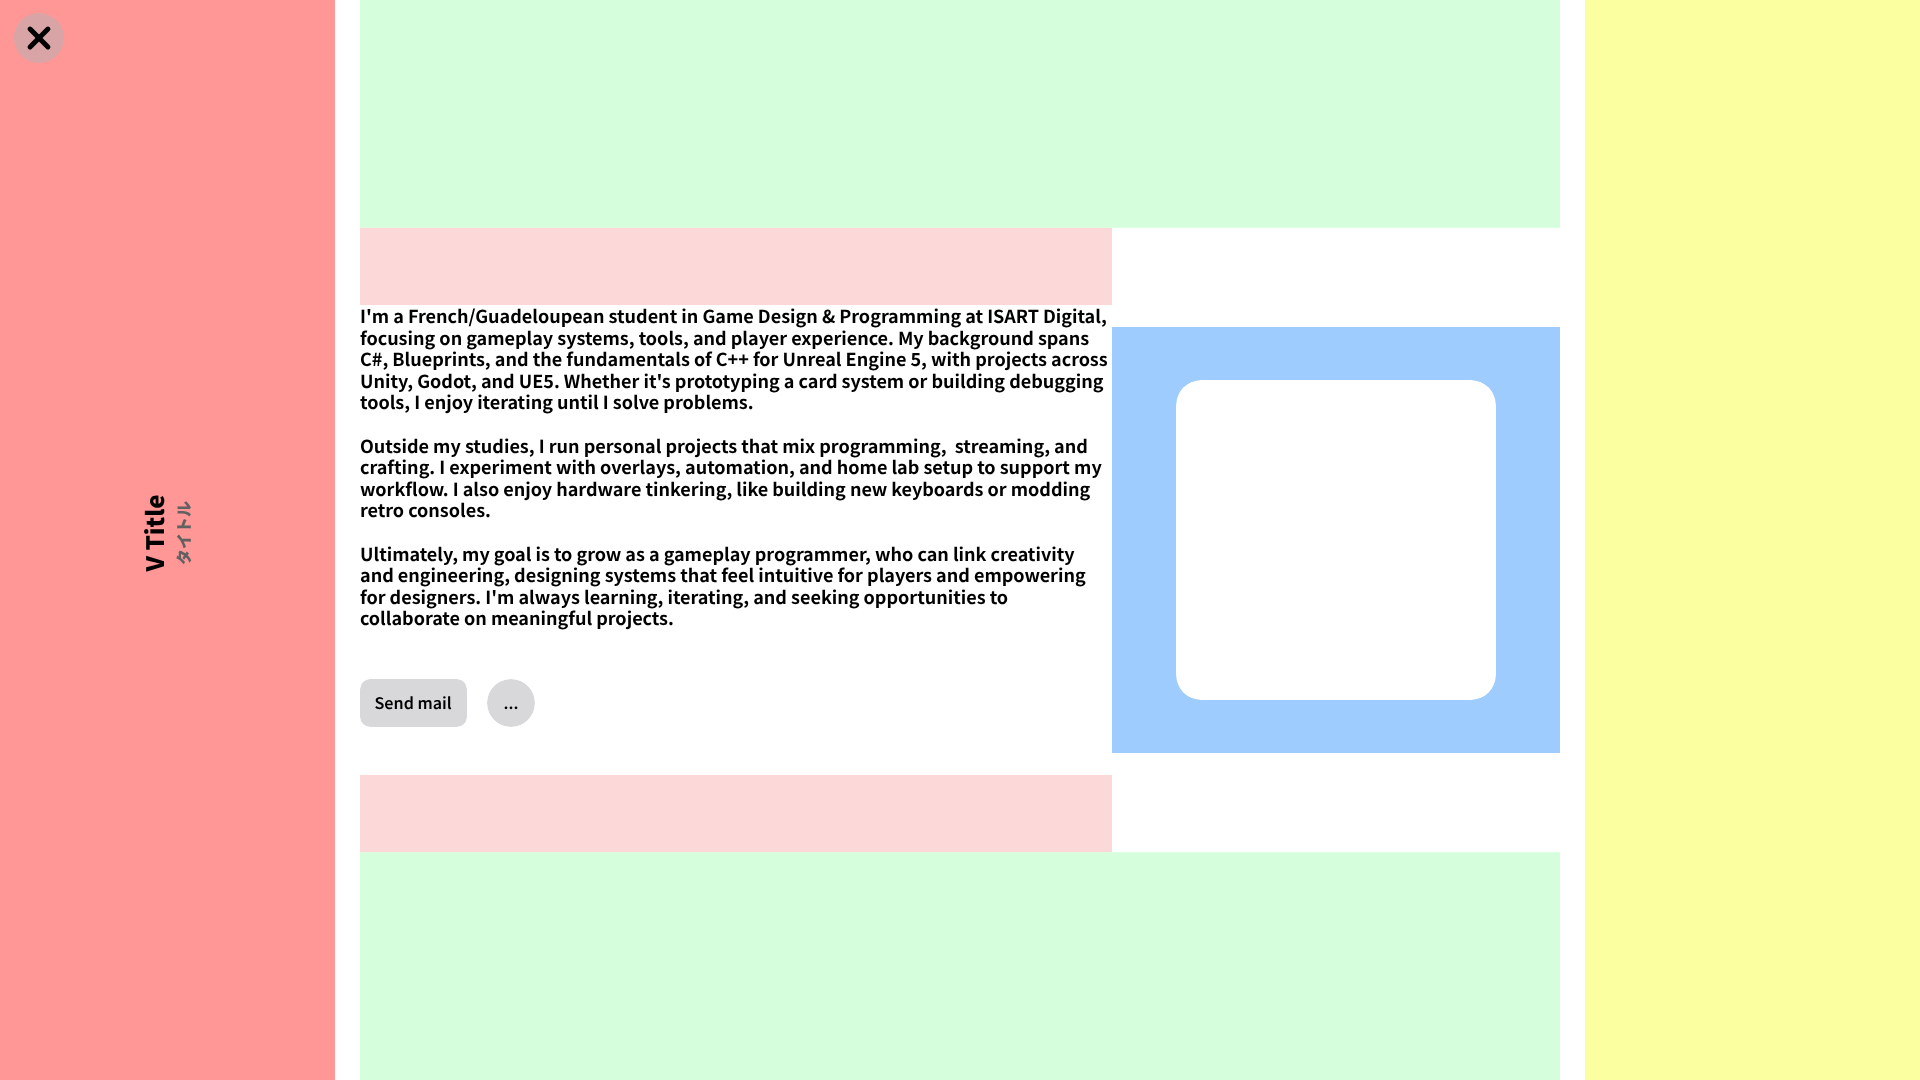
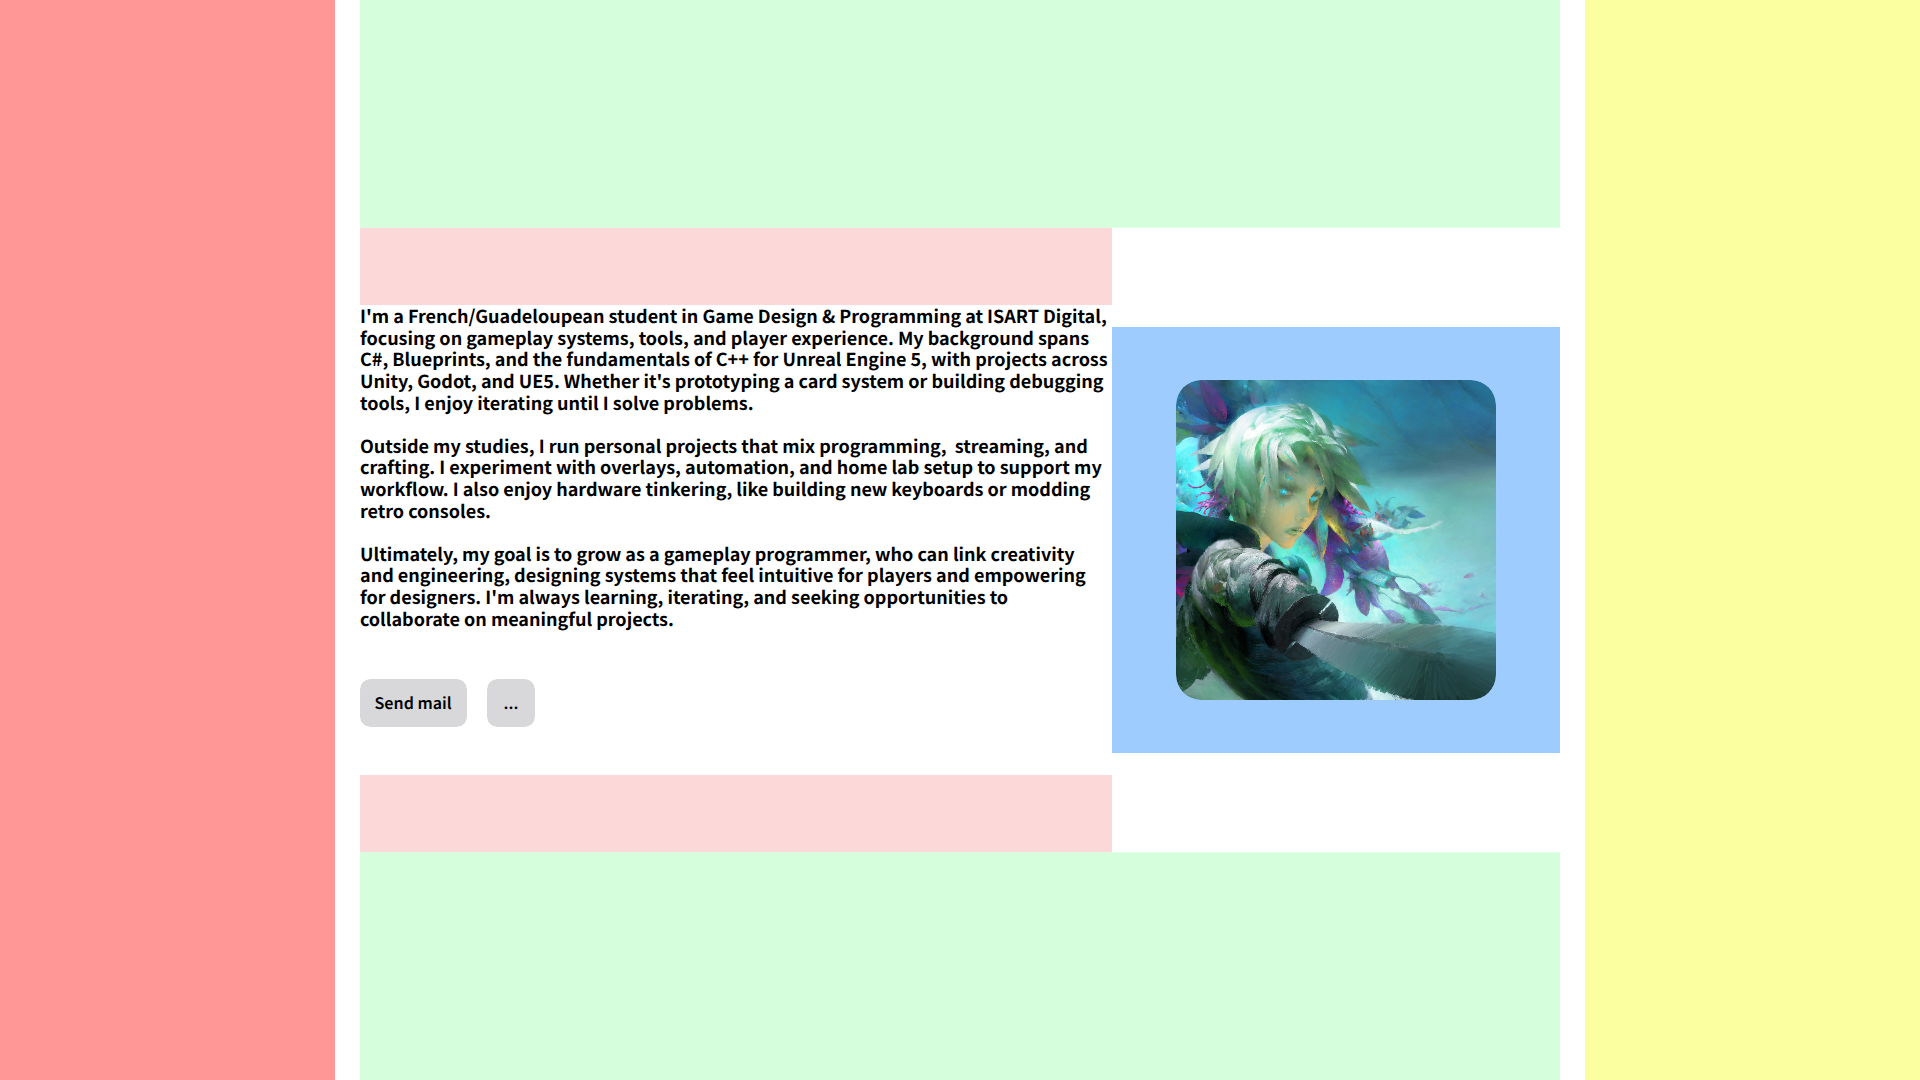
feat: add skeleton for about me refs #7

diff --git a/public/about/assets/css/about.css b/public/about/assets/css/about.css
@@ -1,0 +1,180 @@
+@import url(../../../assets/css/base.css);
+html
+{
+	background-image: url("../../../assets/img/Frieren.png");
+	/* background-repeat: no-repeat; */
+	background-size: cover;
+}
+
+
+
+header
+{
+	position: sticky;
+	background: transparent;
+	border-bottom: none;
+	z-index: 1;
+}
+
+nav
+{
+	display: flex;
+	align-items: center;
+	justify-content: space-between;
+	padding: var(--lspace-20) var(--lspace-25);
+	margin: var(--lspace-20) var(--lspace-25);
+	max-height: 120px;
+	
+	border: 1px solid var(--bg);
+	border-radius: 1rem;
+	backdrop-filter: blur(15px) saturate(250%);
+	-webkit-backdrop-filter: blur(15px) saturate(250%);
+	background-color: rgba(255, 255, 255, 0.05);
+	
+}
+
+.nav-right
+{
+	display: flex;
+	flex-direction: row;
+	align-items: center;
+	justify-content: center;
+	column-gap: var(--lspace-20);
+}
+
+.chip
+{
+	display: inline-flex;
+	flex-direction: column;
+	align-items: center;
+	
+	color: var(--muted);
+	text-align: center;
+	font-size: 1.5rem;
+	border: 1px solid rgba(255, 255, 255, 0);
+	border-radius: var(--radii-xl);
+	padding: var(--lspace-5);
+	/* backdrop-filter: blur(1px) saturate(120%); */
+	/* -webkit-backdrop-filter: blur(1px) saturate(120%); */
+}
+
+.chip:hover
+{
+	color: var(--text);
+	border: 1px solid var(--muted);
+	border-radius: var(--radii-xl);
+	backdrop-filter: blur(15px) saturate(300%);
+	-webkit-backdrop-filter: blur(15px) saturate(300%);
+	background-color: rgba(0, 0, 0, 0.05);
+}
+
+main
+{
+	/* display: flex;
+	align-items: center;
+	justify-content: space-between; */
+	margin: 0px var(--lspace-25);
+}
+
+.about-me
+{
+	/* max-width: 60%; */
+	display: flex;
+	align-items: center;
+	justify-content: space-between;
+
+}
+
+.about-me-text
+{
+	border: 1px solid var(--bg);
+	border-radius: 1rem;
+	backdrop-filter: blur(15px) saturate(250%);
+	-webkit-backdrop-filter: blur(15px) saturate(250%);
+	background-color: rgba(255, 255, 255, 0.05);
+
+	padding: var(--lspace-20);
+	padding-top: var(--lspace-5);
+	padding-bottom: 0px;
+
+	max-width: 60%;
+}
+
+.about-me-text > h1
+{
+	margin: 0;
+}
+
+.pfp
+{
+	margin: 0% 5%;
+
+	padding: 1%;
+	
+	border: 1px solid var(--bg);
+	border-radius: var(--radii-xl);
+	backdrop-filter: blur(15px) saturate(250%);
+	-webkit-backdrop-filter: blur(15px) saturate(250%);
+	background-color: rgba(255, 255, 255, 0.05);
+	
+}
+
+.pfp > img
+{
+	border-radius: var(--radii-xl);
+}
+
+.buttons
+{
+	display: flex;
+	column-gap: var(--lspace-25);
+}
+
+.button
+{
+	margin: var(--lspace-10) 0px;
+	display: inline-flex;
+    flex-direction: row;
+    align-items: center;
+    justify-content: center;
+
+    padding: 10px 10px;
+    font-size: 1rem;
+    /* font-weight: var(--font-weight-300); */
+
+    /* background: rgb(70, 69, 69); */
+	color: var(--text);
+
+    border: 1px solid var(--muted);
+    border-radius: var(--radii-md);
+    column-gap: var(--lspace-5);
+
+    backdrop-filter: blur(15px) saturate(250%);
+	-webkit-backdrop-filter: blur(15px) saturate(250%);
+	background-color: rgba(255, 255, 255, 0.10);
+    box-shadow: 10px 10px 15px 0px rgba(255, 255, 255, 0.05);
+}
+
+.button:hover
+{
+	/* display: inline-flex;
+    flex-direction: row;
+    align-items: center;
+    justify-content: center;
+
+    padding: 10px 10px;
+    font-size: 1rem; */
+	color: black;
+    /* font-weight: var(--font-weight-300); */
+
+    /* background: rgb(70, 69, 69); */
+
+    /* border: 1px solid var(--muted);
+    border-radius: var(--radii-md);
+    column-gap: var(--lspace-5); */
+
+    /* backdrop-filter: blur(15px) saturate(250%); */
+	/* -webkit-backdrop-filter: blur(15px) saturate(250%); */
+	background-color: rgba(255, 255, 255, 0.50);
+    /* box-shadow: 10px 10px 15px 0px rgba(255, 255, 255, 0.05); */
+}

diff --git a/public/about/about.html b/public/about/about.html
@@ -1,0 +1,68 @@
+<!DOCTYPE html>
+<html lang="en">
+
+<head>
+    <meta charset="UTF-8">
+    <meta name="viewport" content="width=device-width, initial-scale=1.0">
+    <title>About Me - Thomas</title>
+
+    <!-- Font preload -->
+    <link rel="preconnect" href="https://fonts.googleapis.com">
+    <link rel="preconnect" href="https://fonts.gstatic.com" crossorigin>
+    <link
+        href="https://fonts.googleapis.com/css2?family=Noto+Sans+JP:wght@100..900&family=Noto+Sans:ital,wght@0,100..900;1,100..900&display=swap"
+        rel="stylesheet">
+
+    <!-- CSS -->
+    <!-- <link rel="stylesheet" href="../assets/css/base.css"> -->
+    <link rel="stylesheet" href="assets/css/about.css">
+    <link rel="shortcut icon" href="../assets/img/Thumbnail.png" type="image/x-icon">
+
+    <!-- JS -->
+    <script src="../assets/js/core.js" defer></script>
+</head>
+
+<body>
+    <header>
+        <nav>
+            <div>
+                <a class="chip" href="../index.html"><span>Home</span><span>トップページ</span></a>
+            </div>
+            <div class="nav-right">
+                <a class="chip" href="#"><span>Portfolio</span><span>ポートフォリオ</span></a>
+                <a class="chip" href="#"><span>About Me</span><span>私について</span></a>
+            </div>
+        </nav>
+    </header>
+    <main>
+        <div class="about-me">
+            <div class="about-me-text">
+                <h1>About me</h1>
+                <p>I'm a French/Guadeloupean student in Game Design & Programming at ISART Digital, focusing on gameplay
+                    systems, tools, and player experience. My background spans C#, Blueprints, and the fundamentals of
+                    C++
+                    for Unreal Engine 5, with projects across Unity, Godot, and UE5. Whether it's prototyping a card
+                    system
+                    or building debugging tools, I enjoy iterating until I solve problems.</p>
+                <p>Outside my studies, I run personal projects that mix programming, streaming, and crafting. I
+                    experiment
+                    with overlays, automation, and home lab setup to support my workflow. I also enjoy hardware
+                    tinkering,
+                    like building new keyboards or modding retro consoles.</p>
+                <p>Ultimately, my goal is to grow as a gameplay programmer, who can link creativity and engineering,
+                    designing systems that feel intuitive for players and empowering for designers. I'm always learning,
+                    iterating, and seeking opportunities to collaborate on meaningful projects.</p>
+            </div>
+            <div class="pfp">
+                <img src="../assets/img/Thumbnail.png" alt="Profile picture">
+            </div>
+        </div>
+        <div class="buttons">
+            <button class="button">Send mail</button>
+            <a href="#" class="button">LinkedIn</a>
+            <a href="https://github.com/FuyukoHanekura" class="button">Github</a>
+        </div>
+    </main>
+</body>
+
+</html>

diff --git a/public/index.html b/public/index.html
@@ -34,7 +34,7 @@
 			</div>
 			<div class="nav-right">
 				<a class="chip" href="#"><span>Portfolio</span><span>ポートフォリオ</span></a>
-				<a class="chip" href="#"><span>About Me</span><span>私について</span></a>
+				<a class="chip" href="about/about.html"><span>About Me</span><span>私について</span></a>
 			</div>
 		</nav>
 	</header>
